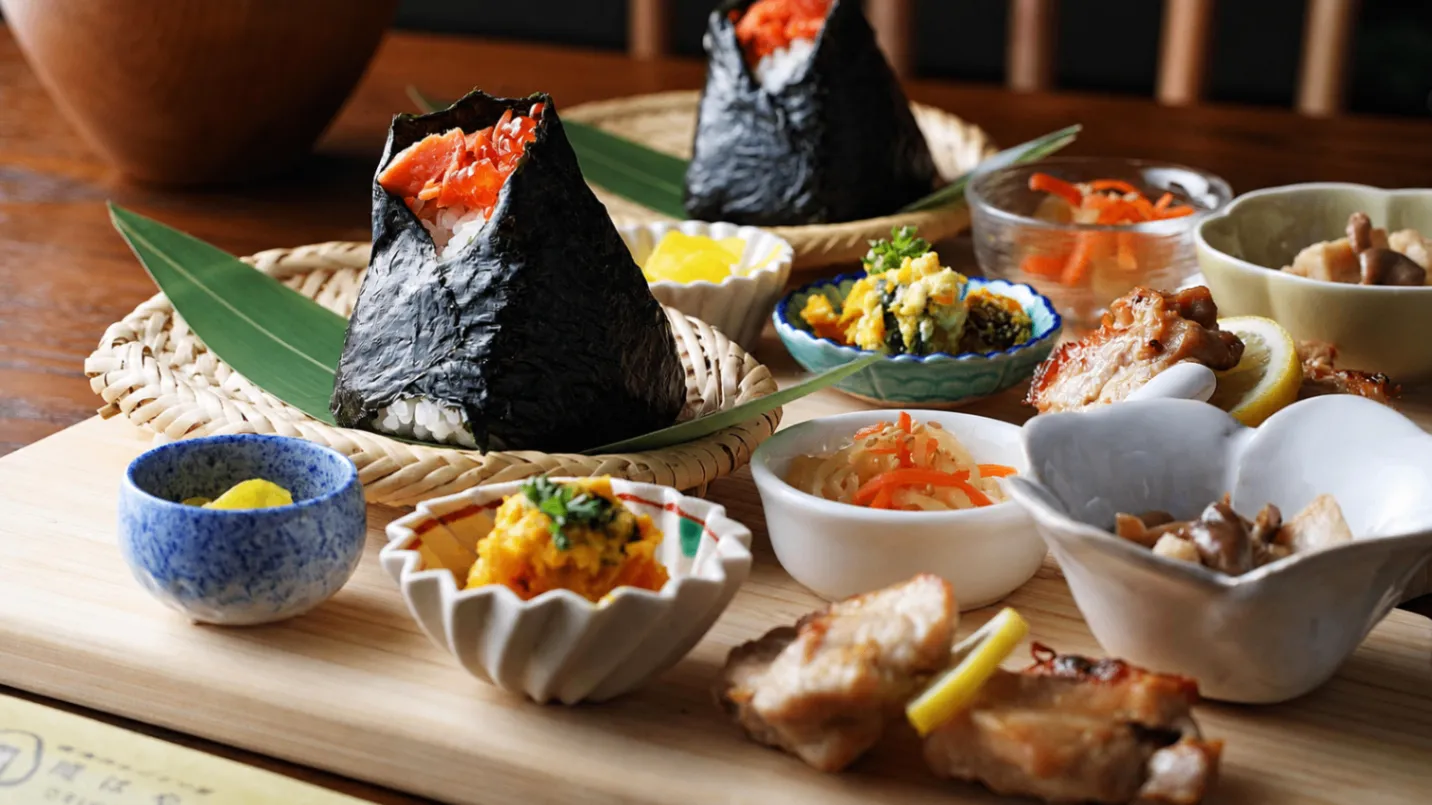
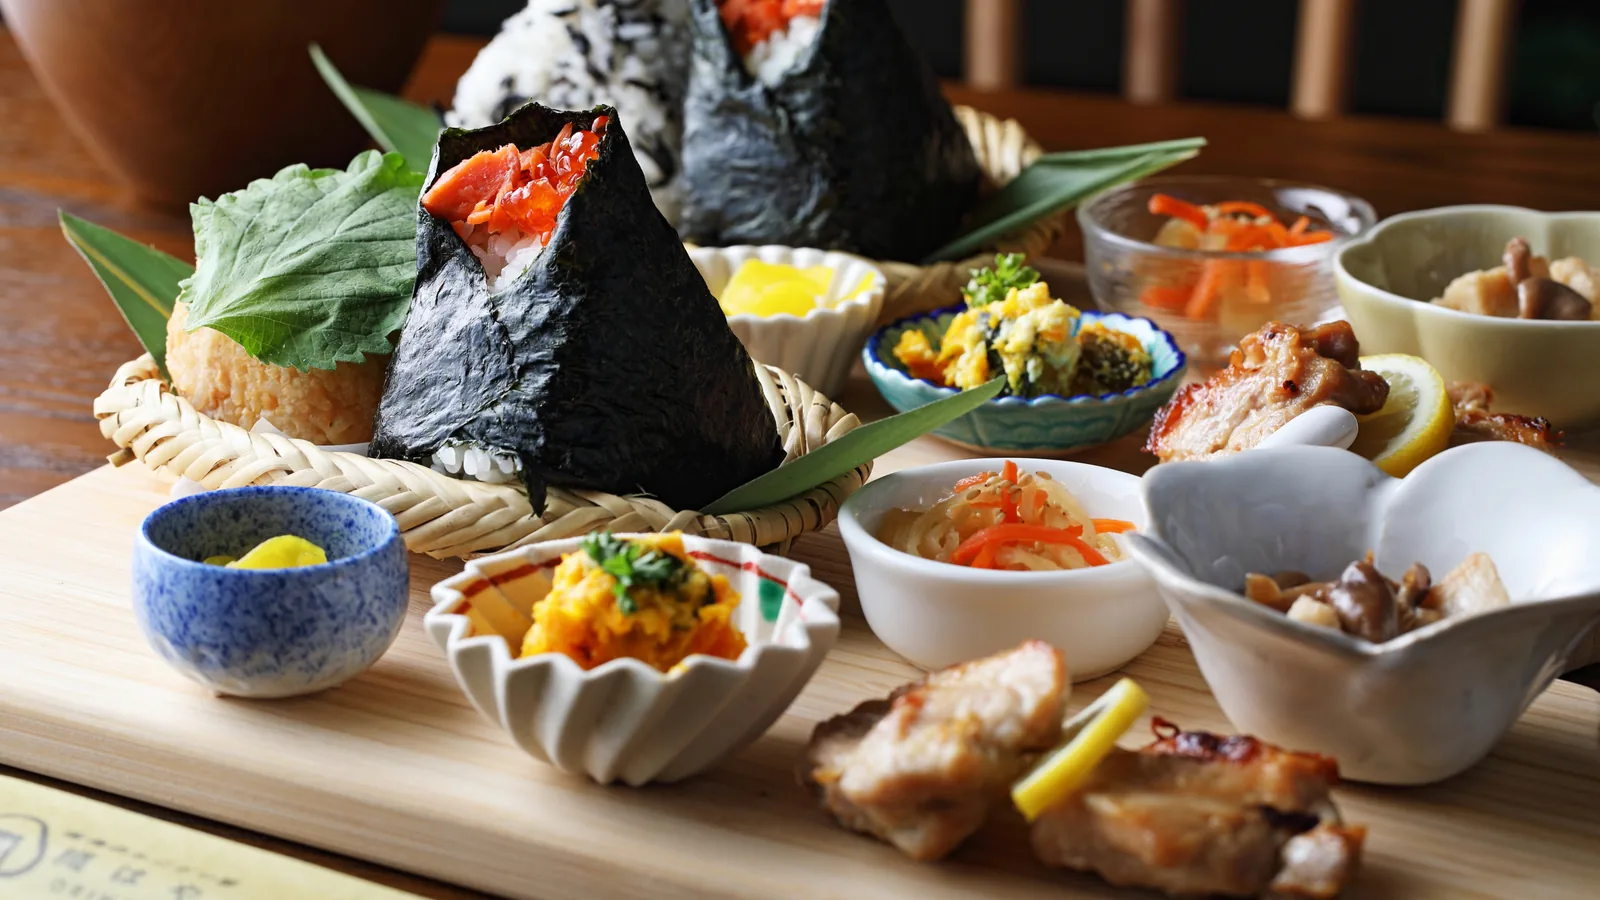
feat(order): ランチプレート2個用の画像を差し替え限定おにぎりを+100円に
- ランチプレート（おにぎり2個）の写真を、おにぎり2個が写った
  ものに差し替え。パスを変えずに済むよう webp に変換して同名で保存
- ランチプレートで限定おにぎりを選んだ場合の追加料金を
  +50円（450円以上のため）から +100円に変更

Claude-Session: https://claude.ai/code/session_01VvLHN1QNzMcDKj8akjBcTC

diff --git a/ordering-system/src/lib/types.ts b/ordering-system/src/lib/types.ts
@@ -91,6 +91,9 @@ export function orderShortId(orderId: string): string {
     .toString().padStart(4, '0')
 }
 
+/** 限定おにぎりの商品名（DBの name と一致させること） */
+export const LIMITED_ONIGIRI_NAME = '限定おにぎり'
+
 export const TOPPING_NAME = 'とろろ昆布'
 export const TOPPING_PRICE = 50
 
@@ -176,11 +179,13 @@ export interface LunchNigiriUnit {
 
 /**
  * ランチプレート選択時のおにぎり追加料金
- * しゃけ筋子: +200円 / 筋子: +100円 / 450円以上: +50円 / その他: 0円
+ * しゃけ筋子: +200円 / 筋子: +100円 / 限定おにぎり: +100円 /
+ * 450円以上: +50円 / その他: 0円
  */
 export function getLunchPlateSurcharge(product: Product): number {
   if (product.name === 'しゃけ筋子') return 200
   if (product.name.includes('筋子')) return 100   // 筋子・極み筋子など
+  if (product.name === LIMITED_ONIGIRI_NAME) return 100
   if (product.price >= 450) return 50
   return 0
 }
